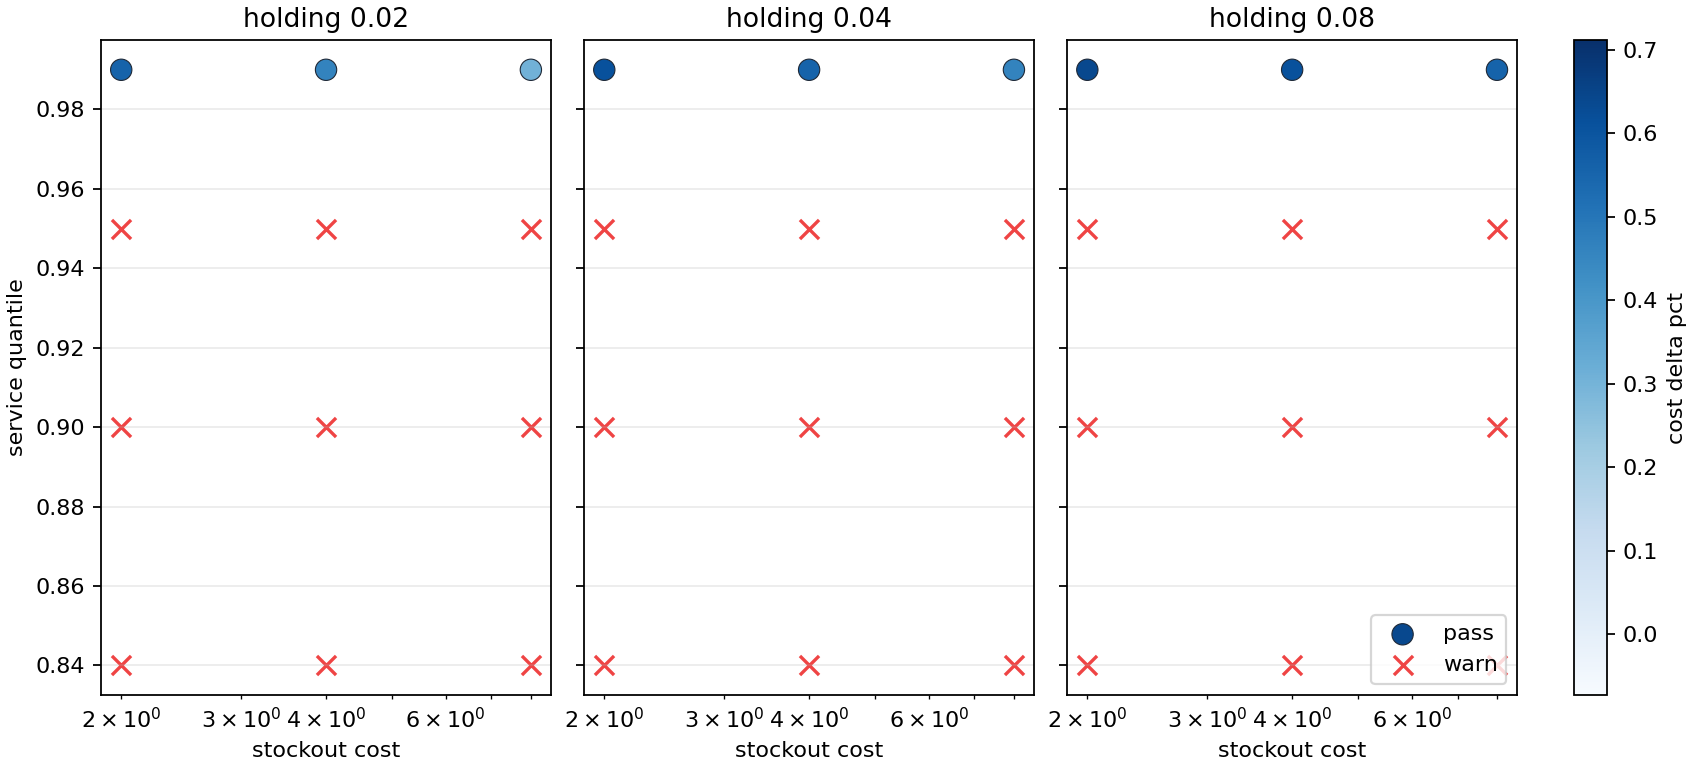
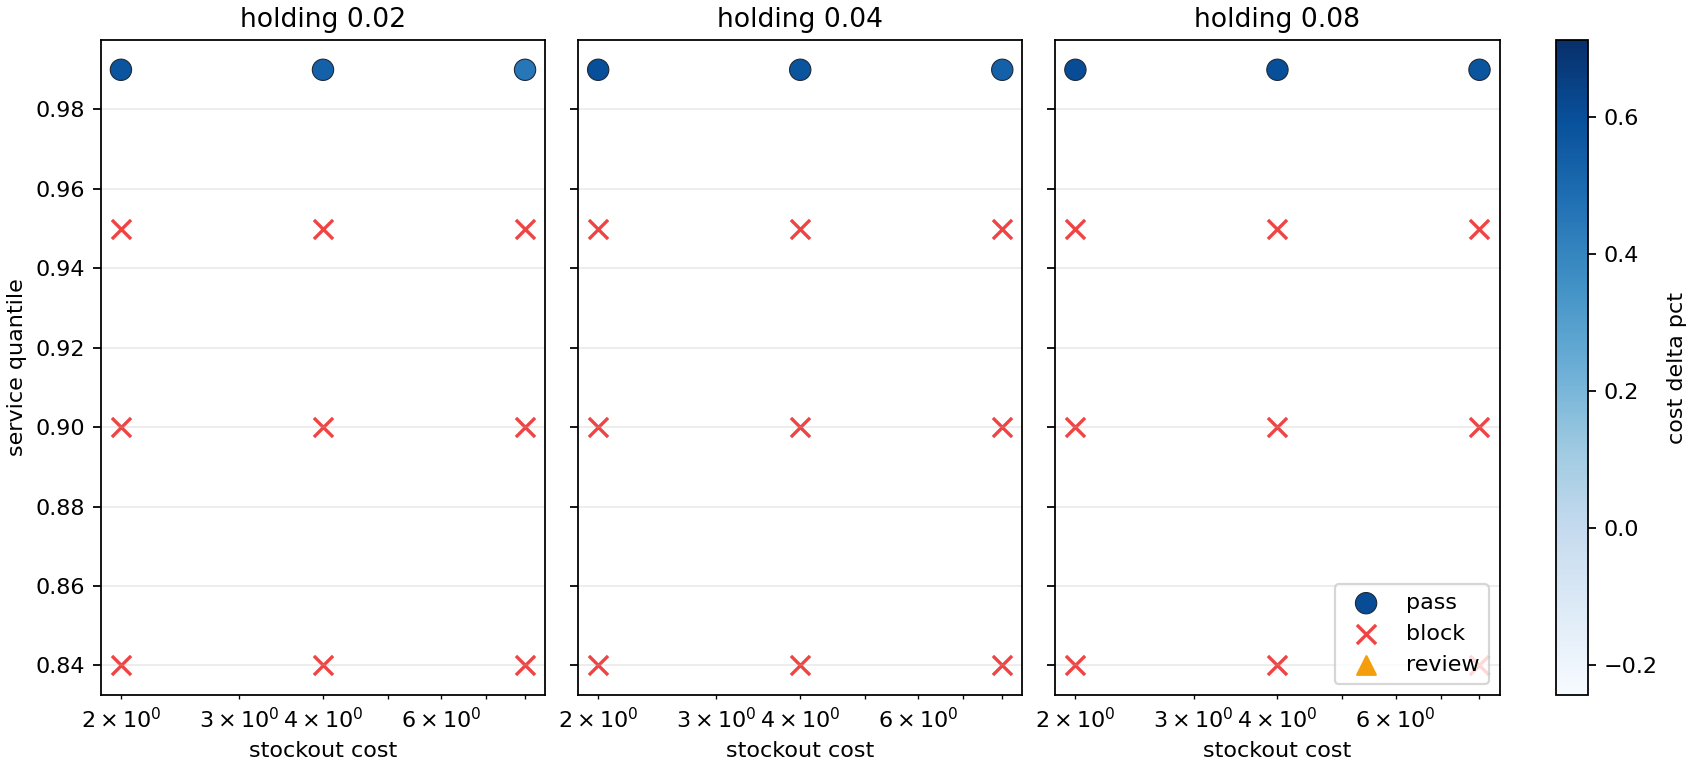
Show replenishment gate hard checks

diff --git a/src/data/portfolio.ts b/src/data/portfolio.ts
@@ -119,7 +119,7 @@ export const flagshipSystems = [
 		stack: ['Python', 'pandas', 'scikit-learn', 'simulation', 'GitHub Actions'],
 		evidence: ['UCI dataset', 'failure-mode report', 'frontier gate', 'lead-time uncertainty', 'SKU diagnostics'],
 		nextEvidence: ['second dataset check', 'operator feedback'],
-		stat: { k: 'Lead-time review', v: '12 / 16' },
+		stat: { k: 'Gate', v: 'review' },
 		href: '/projects/replenishment-policy-gate/',
 	},
 	{
@@ -276,18 +276,18 @@ export const caseRecords: CaseRecord[] = [
 		problem: 'Forecast error alone did not decide whether the reorder policy was usable',
 		hardPart: 'A lower inventory policy could pass aggregate cost while failing service under lead-time and SKU checks',
 		response: 'Built base-stock simulation, service-floor gate, frontier selection, lead-time grid, cost sensitivity grid, and named failure-mode report',
-		result: 'Model q 0.99 selected; LOW_Q_STOCKOUT 3/4; LEAD_TIME_FRAGILITY 12/16; SKU floor 11/12',
+		result: 'Top 50 SKUs; final gate review; robust q 0.99 passes 4/4 lead-time settings; SKU floor 48/50',
 		metrics: [
-			{ label: 'model WAPE', value: '0.861', help: 'weighted forecast error, lower is better', koLabel: 'model WAPE', koHelp: '판매량 기준 가중 예측 오차, 낮을수록 좋음' },
-			{ label: 'cost delta', value: '-55.68%', bar: 56, help: 'simulated policy cost reduction vs baseline', koLabel: 'cost delta', koHelp: 'baseline 대비 simulation policy cost 감소율' },
-			{ label: 'lead-time review', value: '12/16', help: 'lead-time scenarios requiring baseline or review', koLabel: 'lead-time review', koHelp: 'baseline 또는 review가 필요한 lead-time scenario' },
+			{ label: 'model WAPE', value: '0.865', help: 'weighted forecast error, lower is better', koLabel: 'model WAPE', koHelp: '판매량 기준 가중 예측 오차, 낮을수록 좋음' },
+			{ label: 'cost delta', value: '-57.46%', bar: 57, help: 'simulated policy cost reduction vs baseline', koLabel: 'cost delta', koHelp: 'baseline 대비 simulation policy cost 감소율' },
+			{ label: 'blocked lead-time', value: '12/16', help: 'lead-time and quantile settings blocked by service-floor failure', koLabel: 'blocked lead-time', koHelp: 'service-floor failure로 block된 lead-time 및 quantile setting' },
 		],
 		ko: {
 			context: 'retail demand forecast를 reorder level로 바꾸는 과정에서, 더 저렴한 model policy가 SKU-level stockout risk를 만들 수 있음을 확인',
 			problem: 'forecast error만으로는 reorder policy 사용 가능 여부를 판단할 수 없음',
 			hardPart: '낮은 inventory policy가 aggregate cost는 통과해도 lead-time과 SKU check에서 service를 실패할 수 있음',
 			response: 'base-stock simulation, service-floor gate, frontier selection, lead-time grid, cost sensitivity grid, named failure-mode report 구성',
-			result: 'model q 0.99 선택; LOW_Q_STOCKOUT 3/4; LEAD_TIME_FRAGILITY 12/16; SKU floor 11/12',
+			result: 'top 50 SKU; final gate review; robust q 0.99는 lead-time setting 4/4 pass; SKU floor 48/50',
 		},
 	},
 	{
